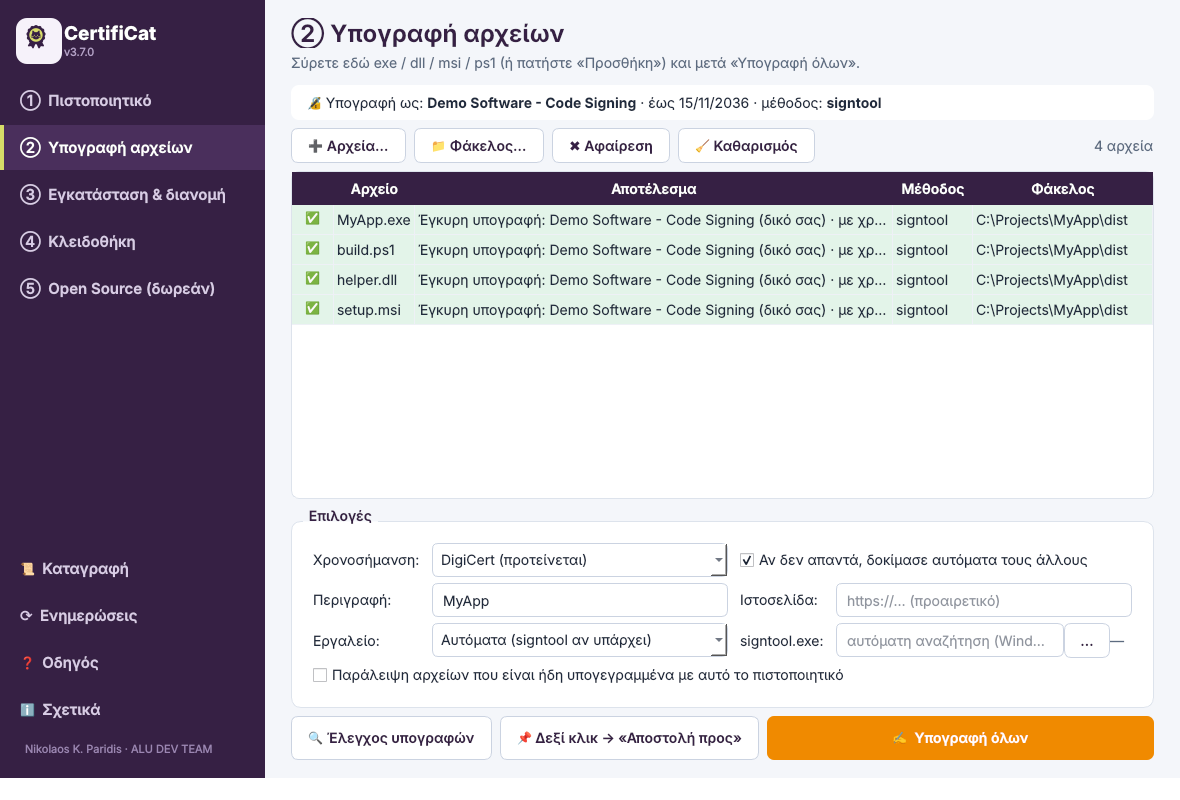
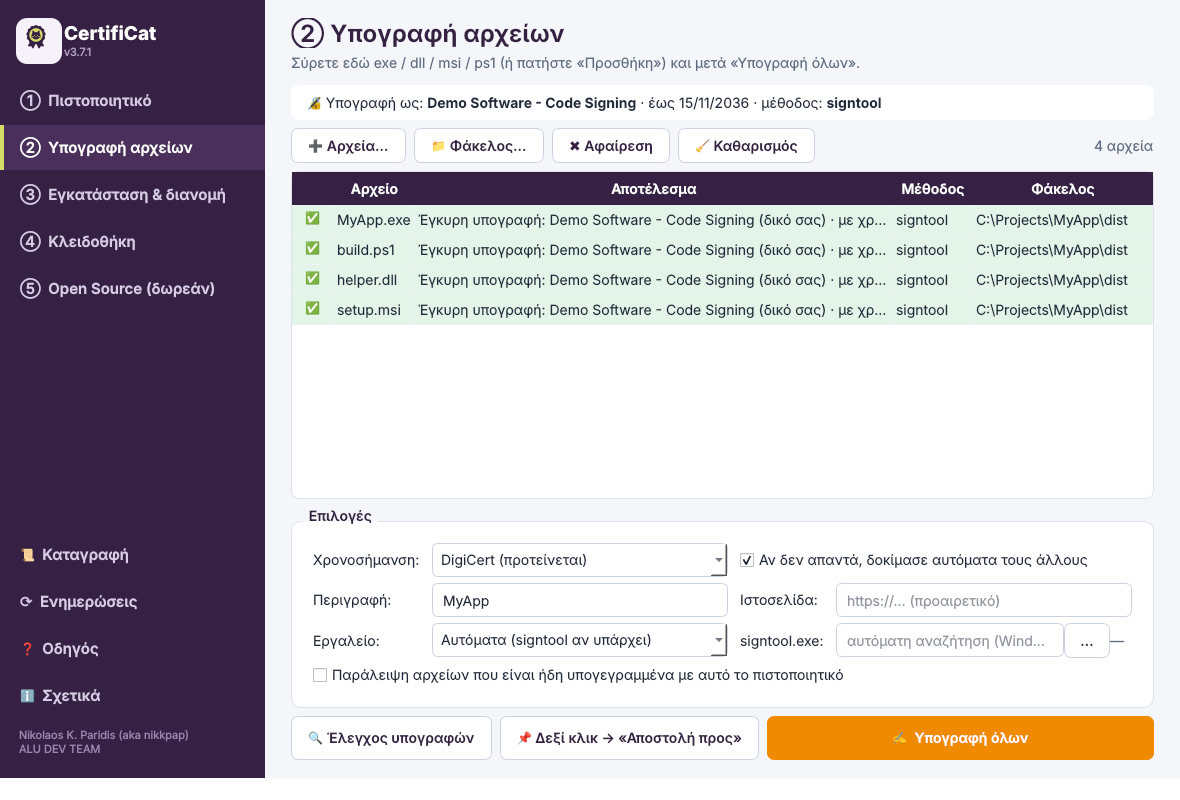
CertifiCat 3.7.1: author credit 'Nikolaos K. Paridis (aka nikkpap)'
- Credit in About, splash and sidebar (sidebar on two lines so it fits)
- README author line, refreshed screenshots, release notes

Claude-Session: https://claude.ai/code/session_01XQ2geJL8bTSMUgb7w7f4JZ

Changed region(s): [[0.0, 0.75, 0.1831, 0.9375], [0.0, 0.6875, 0.122, 0.7188]]

diff --git a/README.md b/README.md
@@ -112,7 +112,7 @@ legacy/                 ← older Tkinter version (v2.5)
 
 ## 👤 Author
 
-**Νικόλαος Κ. Παρίδης · Nikolaos K. Paridis**, Civil Engineer · ALU DEV TEAM
+**Νικόλαος Κ. Παρίδης · Nikolaos K. Paridis (aka nikkpap)**, Civil Engineer · ALU DEV TEAM
 ✉ [nikkpap@gmail.com](mailto:nikkpap@gmail.com) · [github.com/nikkpap](https://github.com/nikkpap)
 
 Licensed under **GPL-3.0**, see [LICENSE](LICENSE).

diff --git a/release-notes/v3.7.1.md b/release-notes/v3.7.1.md
@@ -1,0 +1,6 @@
+## CertifiCat 3.7.1 🐱
+
+- Στοιχεία δημιουργού: **Nikolaos K. Paridis (aka nikkpap)** στο «Σχετικά», στην αρχική οθόνη και στην πλαϊνή μπάρα.
+- Νέα screenshots στο README.
+
+Όλα τα νέα της 3.7 (δωρεάν υπογραφή για Open Source μέσω SignPath Foundation, 🐙 εξαγωγή για GitHub) ισχύουν κανονικά.
